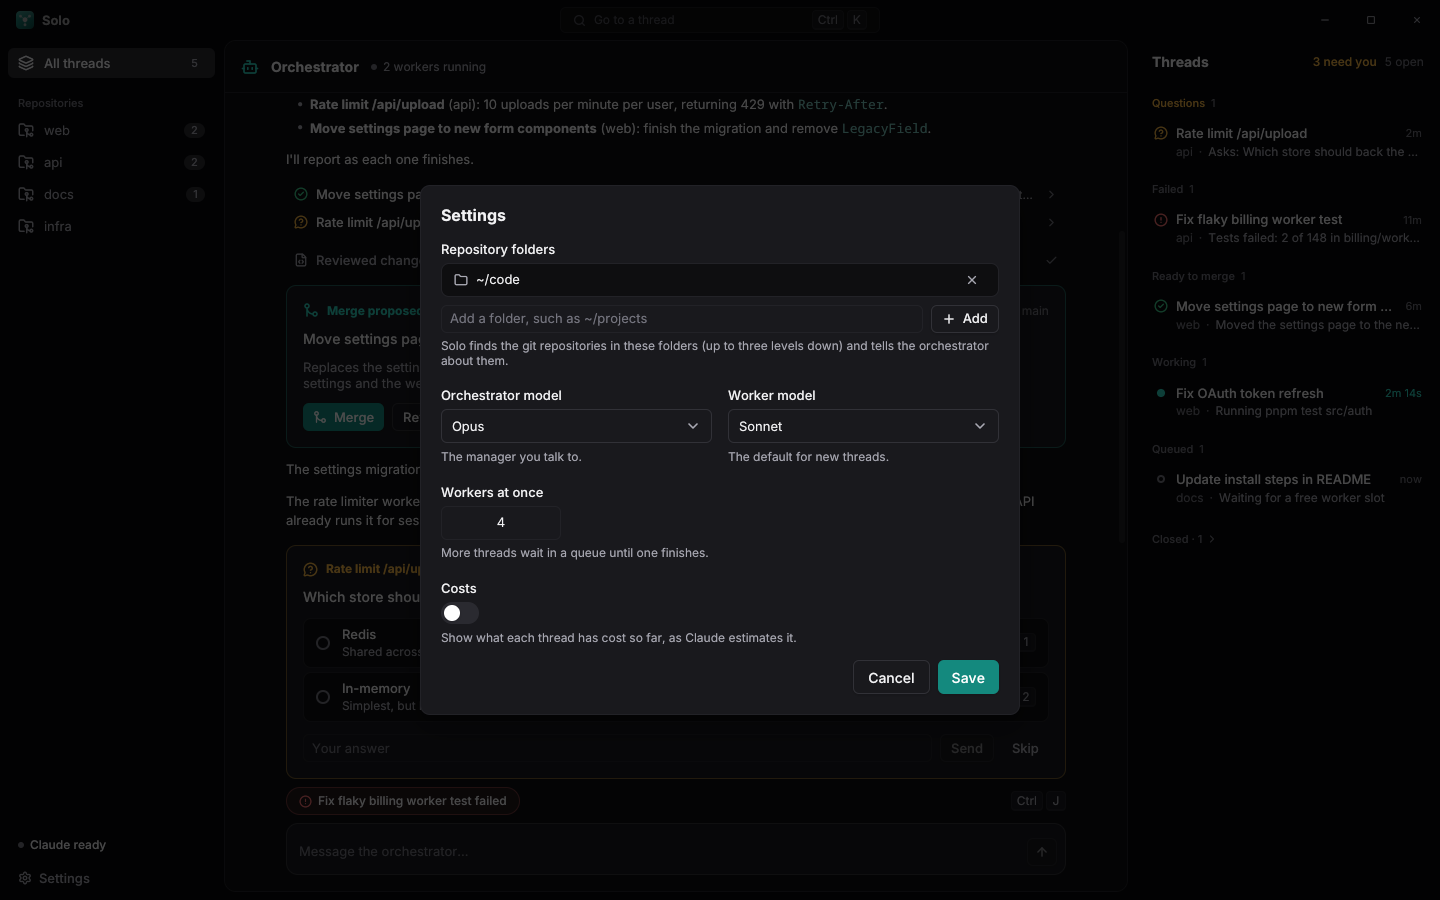
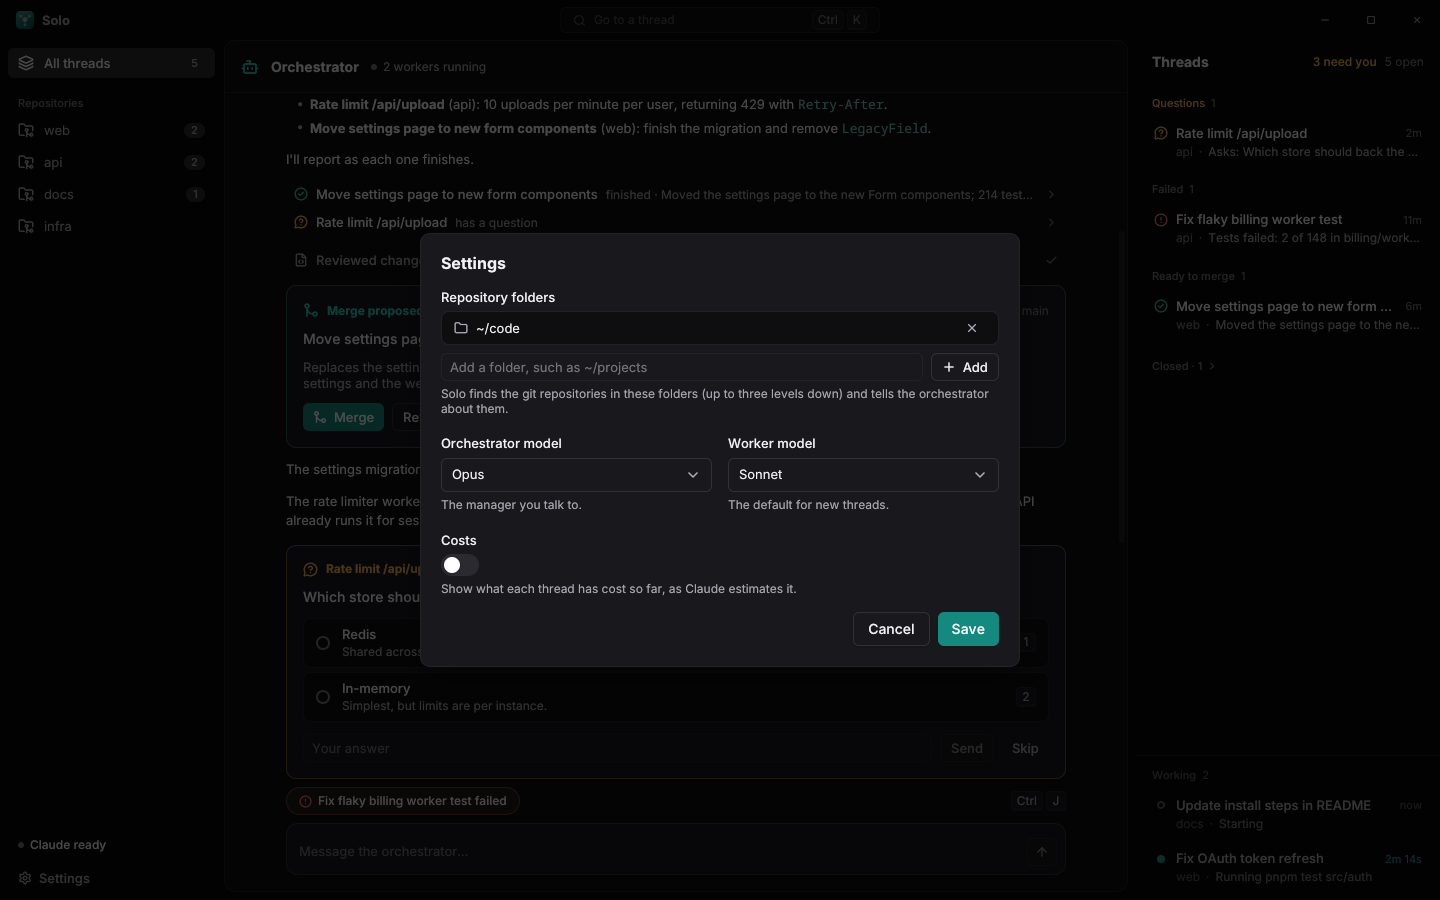
feat!: no cap on concurrent workers; working threads pinned below
Every worker starts at once: the MaxConcurrent setting, its control and
the queue it fed are gone, and the orchestrator is told workers run in
parallel without a limit. In the rail, threads at work move to a section
pinned to the bottom, dimmed until hovered, so what needs the user leads.

BREAKING CHANGE: Settings.MaxConcurrent is removed; a saved value is ignored.

diff --git a/internal/core/core_test.go b/internal/core/core_test.go
@@ -2,6 +2,7 @@ package core
 
 import (
 	"context"
+	"fmt"
 	"io"
 	"log/slog"
 	"os"
@@ -37,7 +38,7 @@ type env struct {
 	repo    string
 }
 
-func newEnv(t *testing.T, maxConcurrent int) *env {
+func newEnv(t *testing.T) *env {
 	t.Helper()
 	root := t.TempDir()
 	repo := filepath.Join(root, "proj")
@@ -50,7 +51,7 @@ func newEnv(t *testing.T, maxConcurrent int) *env {
 	}
 	e := &env{dataDir: t.TempDir(), root: root, repo: repo}
 	e.c = e.open(t)
-	if err := e.c.UpdateSettings(func(s *Settings) { s.Folders = []string{root}; s.MaxConcurrent = maxConcurrent }); err != nil {
+	if err := e.c.UpdateSettings(func(s *Settings) { s.Folders = []string{root} }); err != nil {
 		t.Fatal(err)
 	}
 	return e
@@ -105,7 +106,7 @@ func kinds(items []Item) string {
 }
 
 func TestWorkerLifecycleAndMerge(t *testing.T) {
-	e := newEnv(t, 4)
+	e := newEnv(t)
 	ctx := context.Background()
 	if got := e.c.RepoPaths(); len(got) != 1 || got[0] != e.repo {
 		t.Fatalf("repos %v", got)
@@ -158,34 +159,32 @@ func TestWorkerLifecycleAndMerge(t *testing.T) {
 	}
 }
 
-func TestQueueRespectsMaxConcurrent(t *testing.T) {
-	e := newEnv(t, 1)
+func TestWorkersAllStartAtOnce(t *testing.T) {
+	e := newEnv(t)
 	ctx := context.Background()
-	a, _ := e.c.CreateWorker(ctx, WorkerSpec{Repo: "proj", Title: "A", Prompt: "slow"})
-	b, _ := e.c.CreateWorker(ctx, WorkerSpec{Repo: "proj", Title: "B", Prompt: "hello"})
-	waitStatusAllowTurn(t, e.c, a.ID, StatusRunning)
-	for v, _ := e.c.Thread(a.ID); !v.InTurn; v, _ = e.c.Thread(a.ID) {
-		time.Sleep(10 * time.Millisecond)
+	var ids []string
+	for i := 0; i < 6; i++ {
+		v, err := e.c.CreateWorker(ctx, WorkerSpec{Repo: "proj", Title: fmt.Sprintf("W%d", i), Prompt: "slow"})
+		if err != nil {
+			t.Fatal(err)
+		}
+		ids = append(ids, v.ID)
 	}
-	time.Sleep(200 * time.Millisecond)
-	if v, _ := e.c.Thread(b.ID); v.Status != StatusQueued {
-		t.Fatalf("B is %s while A runs, want queued", v.Status)
+	for _, id := range ids {
+		waitStatusAllowTurn(t, e.c, id, StatusRunning)
 	}
-	// A turn in progress shows as running.
-	if v, _ := e.c.Thread(a.ID); !v.InTurn || !v.CanInterrupt {
-		t.Fatalf("A %+v", v)
+	for _, id := range ids {
+		if err := e.c.Interrupt(ctx, id); err != nil {
+			t.Fatal(err)
+		}
 	}
-	if err := e.c.Interrupt(ctx, a.ID); err != nil {
-		t.Fatal(err)
-	}
-	waitStatus(t, e.c, a.ID, StatusInterrupted)
-	if v := waitStatus(t, e.c, b.ID, StatusIdle); !strings.HasPrefix(v.Summary, "echo: hello") {
-		t.Fatalf("B summary %q", v.Summary)
+	for _, id := range ids {
+		waitStatus(t, e.c, id, StatusInterrupted)
 	}
 }
 
 func TestQuestionWaitsForAnswer(t *testing.T) {
-	e := newEnv(t, 2)
+	e := newEnv(t)
 	ctx := context.Background()
 	v, _ := e.c.CreateWorker(ctx, WorkerSpec{Repo: "proj", Prompt: "ask"})
 	v = waitStatusAllowTurn(t, e.c, v.ID, StatusWaiting)
@@ -231,7 +230,7 @@ func waitStatusAllowTurn(t *testing.T, c *Core, id, status string) ThreadView {
 }
 
 func TestToolHandler(t *testing.T) {
-	e := newEnv(t, 2)
+	e := newEnv(t)
 	e.c.SetToolHandler(func(ctx context.Context, threadID, name string, args []byte) (string, bool) {
 		return "handled " + name + " " + string(args), false
 	})
@@ -242,7 +241,7 @@ func TestToolHandler(t *testing.T) {
 }
 
 func TestFailedTurn(t *testing.T) {
-	e := newEnv(t, 2)
+	e := newEnv(t)
 	v, _ := e.c.CreateWorker(context.Background(), WorkerSpec{Repo: "proj", Prompt: "fail"})
 	if v := waitStatus(t, e.c, v.ID, StatusFailed); v.Error != "scripted failure" {
 		t.Fatalf("error %q", v.Error)
@@ -250,7 +249,7 @@ func TestFailedTurn(t *testing.T) {
 }
 
 func TestDiscard(t *testing.T) {
-	e := newEnv(t, 2)
+	e := newEnv(t)
 	ctx := context.Background()
 	v, _ := e.c.CreateWorker(ctx, WorkerSpec{Repo: "proj", Prompt: "write x.txt y"})
 	v = waitStatus(t, e.c, v.ID, StatusIdle)
@@ -269,7 +268,7 @@ func TestDiscard(t *testing.T) {
 }
 
 func TestRestartResumesThreads(t *testing.T) {
-	e := newEnv(t, 2)
+	e := newEnv(t)
 	ctx := context.Background()
 	v, _ := e.c.CreateWorker(ctx, WorkerSpec{Repo: "proj", Title: "Keep", Prompt: "hello"})
 	waitStatus(t, e.c, v.ID, StatusIdle)
@@ -289,7 +288,7 @@ func TestRestartResumesThreads(t *testing.T) {
 }
 
 func TestResolveRepo(t *testing.T) {
-	e := newEnv(t, 1)
+	e := newEnv(t)
 	if p, err := e.c.ResolveRepo("proj"); err != nil || p != e.repo {
 		t.Fatalf("%q %v", p, err)
 	}

diff --git a/internal/gui/rail.go b/internal/gui/rail.go
@@ -22,9 +22,9 @@ var railGroups = []struct {
 	{"Questions", []string{core.StatusWaiting}},
 	{"Failed", []string{core.StatusFailed}},
 	{"Ready to merge", []string{core.StatusIdle}},
-	{"Working", []string{core.StatusRunning, core.StatusStarting}},
-	{"Queued", []string{core.StatusQueued}},
 	{"Stopped", []string{core.StatusInterrupted}},
+	// Last, and pinned to the bottom of the rail: work in progress needs nothing from the user.
+	{"Working", []string{core.StatusRunning, core.StatusStarting, core.StatusQueued}},
 }
 
 // rail lists the worker threads, grouped by state and filtered by the sidebar's repository.
@@ -78,7 +78,8 @@ func (a *App) rail(ctx *ui.Context) ui.Element {
 			Child(ui.Icon(icons.Layers).Size(22).Color(t.TextSubtle)).
 			Child(caption(ctx, "No open threads. Ask the orchestrator for something and its workers show up here.").Align(ui.Center)))
 	}
-	for _, g := range railGroups {
+	var working ui.Element
+	for gi, g := range railGroups {
 		var group []core.ThreadView
 		for _, th := range open {
 			if slices.Contains(g.statuses, th.Status) {
@@ -89,6 +90,17 @@ func (a *App) rail(ctx *ui.Context) ui.Element {
 			continue
 		}
 		slices.SortStableFunc(group, func(x, y core.ThreadView) int { return y.UpdatedAt.Compare(x.UpdatedAt) })
+		if gi == len(railGroups)-1 {
+			col := ui.Div().Column().Gap(space1).PaddingX(space2).PaddingBottom(space2).Opacity(0.72).
+				Hover(ui.Style{Opacity: 1}).Transition(150 * time.Millisecond).
+				Child(groupHeader(ctx, g.title, len(group), g.statuses[0]))
+			for _, th := range group {
+				col = col.Child(a.threadRow(ctx, th))
+			}
+			working = ui.Div().Column().Shrink(0).MaxHeight(ui.Percent(45)).ScrollY().
+				BorderEdges(ui.Edges{Top: 1}, t.Border).Child(col)
+			continue
+		}
 		list = list.Child(groupHeader(ctx, g.title, len(group), g.statuses[0]))
 		for _, th := range group {
 			list = list.Child(a.threadRow(ctx, th))
@@ -113,9 +125,13 @@ func (a *App) rail(ctx *ui.Context) ui.Element {
 			return col
 		}))
 	}
-	return ui.Div().Column().Size(ui.Full, ui.Full).Background(t.Panel).
+	rail := ui.Div().Column().Size(ui.Full, ui.Full).Background(t.Panel).
 		Child(head).
 		Child(ui.Div().Column().Grow(1).MinHeight(ui.Px(0)).ScrollY().Child(list))
+	if working != nil {
+		rail = rail.Child(working)
+	}
+	return rail
 }
 
 // needsUser reports whether a thread waits on the user: a question, a failure, or work to review.
@@ -189,7 +205,7 @@ func branchLabel(th core.ThreadView) string {
 func (a *App) activityLine(th core.ThreadView) string {
 	switch th.Status {
 	case core.StatusQueued:
-		return "Waiting for a free worker slot"
+		return "Starting"
 	case core.StatusStarting:
 		return "Creating its worktree"
 	case core.StatusWaiting:

diff --git a/internal/core/thread.go b/internal/core/thread.go
@@ -16,7 +16,7 @@ import (
 
 // Thread statuses.
 const (
-	StatusQueued      = "queued"      // waiting for a free slot (Settings.MaxConcurrent)
+	StatusQueued      = "queued"      // created; about to start
 	StatusStarting    = "starting"    // creating its worktree and session
 	StatusRunning     = "running"     // a turn is in progress
 	StatusWaiting     = "waiting"     // asked the user a question
@@ -27,7 +27,7 @@ const (
 	StatusDiscarded   = "discarded"   // its worktree and branch were deleted
 )
 
-// Active reports whether a thread with the status takes up a worker slot.
+// Active reports whether a thread with the status is starting or working.
 func Active(status string) bool {
 	return status == StatusStarting || status == StatusRunning || status == StatusWaiting
 }
@@ -143,7 +143,7 @@ type WorkerSpec struct {
 	Base   string // branch to start from; empty: the repository's current branch
 }
 
-// CreateWorker creates a worker thread. It starts at once if a slot is free, or waits as queued.
+// CreateWorker creates a worker thread and starts it.
 func (c *Core) CreateWorker(ctx context.Context, spec WorkerSpec) (ThreadView, error) {
 	repo, err := c.ResolveRepo(spec.Repo)
 	if err != nil {
@@ -197,35 +197,20 @@ func (c *Core) CreateWorker(ctx context.Context, spec WorkerSpec) (ThreadView, e
 	return v, nil
 }
 
-// schedule starts queued workers while slots are free, oldest first.
+// schedule starts every queued worker. There is no cap on how many run at once.
 func (c *Core) schedule() {
 	c.mu.Lock()
 	if c.closed {
 		c.mu.Unlock()
 		return
 	}
-	active := 0
-	var queued []*thread
-	for _, t := range c.threads {
-		if t.row.Kind != store.KindWorker {
-			continue
-		}
-		if Active(t.row.Status) {
-			active++
-		} else if t.row.Status == StatusQueued {
-			queued = append(queued, t)
-		}
-	}
-	slices.SortFunc(queued, func(a, b *thread) int { return a.row.CreatedAt.Compare(b.row.CreatedAt) })
 	var start []*thread
 	var changes []Change
-	for _, t := range queued {
-		if active >= c.settings.MaxConcurrent {
-			break
+	for _, t := range c.threads {
+		if t.row.Kind == store.KindWorker && t.row.Status == StatusQueued {
+			changes = append(changes, c.setStatusLocked(t, StatusStarting, ""))
+			start = append(start, t)
 		}
-		active++
-		changes = append(changes, c.setStatusLocked(t, StatusStarting, ""))
-		start = append(start, t)
 	}
 	c.mu.Unlock()
 	c.notify(changes...)

diff --git a/internal/gui/settings.go b/internal/gui/settings.go
@@ -30,7 +30,6 @@ func (a *App) settingsDialog(ctx *ui.Context) ui.Element {
 		newFolder := ui.Local(ctx, "new-folder", "")
 		orchModel := ui.Local(ctx, "orch-model", initial.OrchestratorModel)
 		workerModel := ui.Local(ctx, "worker-model", initial.WorkerModel)
-		maxConc := ui.Local(ctx, "max", initial.MaxConcurrent)
 		showCosts := ui.Local(ctx, "show-costs", initial.ShowCosts)
 
 		add := func() {
@@ -75,17 +74,15 @@ func (a *App) settingsDialog(ctx *ui.Context) ui.Element {
 					ui.Select(orchModel, modelOptions...).Width(ui.Full)))).
 				Child(ui.Div().Grow(1).Basis(ui.Px(0)).Child(field("Worker model", "The default for new threads.",
 					ui.Select(workerModel, modelOptions...).Width(ui.Full))))).
-			Child(field("Workers at once", "More threads wait in a queue until one finishes.",
-				ui.NumberInput(maxConc, 1, 16, 1).Width(ui.Px(120)))).
 			Child(field("Costs", "Show what each thread has cost so far, as Claude estimates it.",
 				ui.Switch("Show costs", showCosts)))
 
 		save := ui.Button("Save").Primary().Key("settings-save").OnClick(func() {
-			f, om, wm, mc, sc := folders.Peek(), orchModel.Peek(), workerModel.Peek(), maxConc.Peek(), showCosts.Peek()
+			f, om, wm, sc := folders.Peek(), orchModel.Peek(), workerModel.Peek(), showCosts.Peek()
 			a.settings.Set(false)
 			a.run("Saving settings", func(context.Context) error {
 				return a.b.UpdateSettings(func(s *core.Settings) {
-					s.Folders, s.OrchestratorModel, s.WorkerModel, s.MaxConcurrent, s.ShowCosts = f, om, wm, mc, sc
+					s.Folders, s.OrchestratorModel, s.WorkerModel, s.ShowCosts = f, om, wm, sc
 				})
 			})
 		})

diff --git a/internal/core/core.go b/internal/core/core.go
@@ -31,16 +31,14 @@ type Settings struct {
 	ScanDepth         int      `json:"scanDepth"`
 	OrchestratorModel string   `json:"orchestratorModel"`
 	WorkerModel       string   `json:"workerModel"`
-	// MaxConcurrent caps how many workers run at once; more wait as queued.
-	MaxConcurrent int    `json:"maxConcurrent"`
-	ClaudePath    string `json:"claudePath,omitempty"`
+	ClaudePath        string   `json:"claudePath,omitempty"`
 	// ShowCosts shows what threads have cost in the UI.
 	ShowCosts bool `json:"showCosts,omitempty"`
 }
 
 // DefaultSettings are used until the user changes them.
 func DefaultSettings() Settings {
-	return Settings{ScanDepth: 3, OrchestratorModel: "opus", WorkerModel: "sonnet", MaxConcurrent: 4}
+	return Settings{ScanDepth: 3, OrchestratorModel: "opus", WorkerModel: "sonnet"}
 }
 
 // Config configures a Core.
@@ -239,9 +237,6 @@ func (c *Core) UpdateSettings(f func(*Settings)) error {
 	s := c.settings
 	s.Folders = slices.Clone(s.Folders)
 	f(&s)
-	if s.MaxConcurrent < 1 {
-		s.MaxConcurrent = 1
-	}
 	if s.ScanDepth < 1 {
 		s.ScanDepth = 1
 	}

diff --git a/internal/orchestrator/tools.go b/internal/orchestrator/tools.go
@@ -56,7 +56,7 @@ var toolSpecs = []agent.ToolSpec{
 	{
 		Name: "spawn_thread",
 		Description: "Start a worker thread: a Claude Code agent in its own git worktree and branch of a repository, with full permissions there. " +
-			"It starts at once, or queues if the maximum number of workers is running. Returns its ID.",
+			"It starts at once; any number can run in parallel. Returns its ID.",
 		InputSchema: schema(`{"type":"object","properties":{
 			"repo":{"type":"string","description":"Repository name or path, from list_repos."},
 			"title":{"type":"string","description":"Short title, a few words, shown to the user."},
@@ -278,7 +278,7 @@ func statusText(t core.ThreadView) string {
 		s += " (waiting on a question)"
 	}
 	if t.Status == core.StatusQueued {
-		s += " (waiting for a free worker slot)"
+		s += " (about to start)"
 	}
 	return s + ", updated " + ago(t.UpdatedAt)
 }

diff --git a/internal/gui/fake_test.go b/internal/gui/fake_test.go
@@ -144,7 +144,7 @@ func demoBackend() *fakeBackend {
 		threads:  []core.ThreadView{orch, oauth, limiter, forms, flaky, readme, bump},
 		items:    map[string][]core.Item{},
 		repos:    repos,
-		settings: core.Settings{Folders: []string{"~/code"}, OrchestratorModel: "opus", WorkerModel: "sonnet", MaxConcurrent: 4, ScanDepth: 3},
+		settings: core.Settings{Folders: []string{"~/code"}, OrchestratorModel: "opus", WorkerModel: "sonnet", ScanDepth: 3},
 		pending: map[string][]core.PendingQuestion{limiter.ID: {{ToolUseID: "toolu_q1", Questions: []agent.Question{{
 			Question: "Which store should back the upload rate limiter?", Header: "Limiter",
 			Options: []agent.QuestionOption{

diff --git a/internal/orchestrator/prompt.go b/internal/orchestrator/prompt.go
@@ -53,5 +53,5 @@ report back. The user spends most of their time talking to you, not to the worke
 - Repositories you know: %s
 - Default worker model: %s. Pass model to spawn_thread only when the user asks or the task clearly needs
   a stronger or cheaper model.
-- At most %d workers run at once; more wait as queued.`, repoList, s.WorkerModel, s.MaxConcurrent)
+- Workers run in parallel without a limit; start as many as the work splits into.`, repoList, s.WorkerModel)
 }

diff --git a/internal/gui/thread.go b/internal/gui/thread.go
@@ -220,7 +220,7 @@ func (a *App) composerFor(ctx *ui.Context, th core.ThreadView) ui.Element {
 		return caption(ctx, "This thread is "+strings.ToLower(statusLabel(th))+".")
 	}
 	if th.Status == core.StatusQueued {
-		return caption(ctx, "This thread starts when a worker slot is free.")
+		return caption(ctx, "This thread is starting.")
 	}
 	id := th.ID
 	return a.composer(ctx, th, "draft-"+id, "Message this worker…", func(text string) error {
